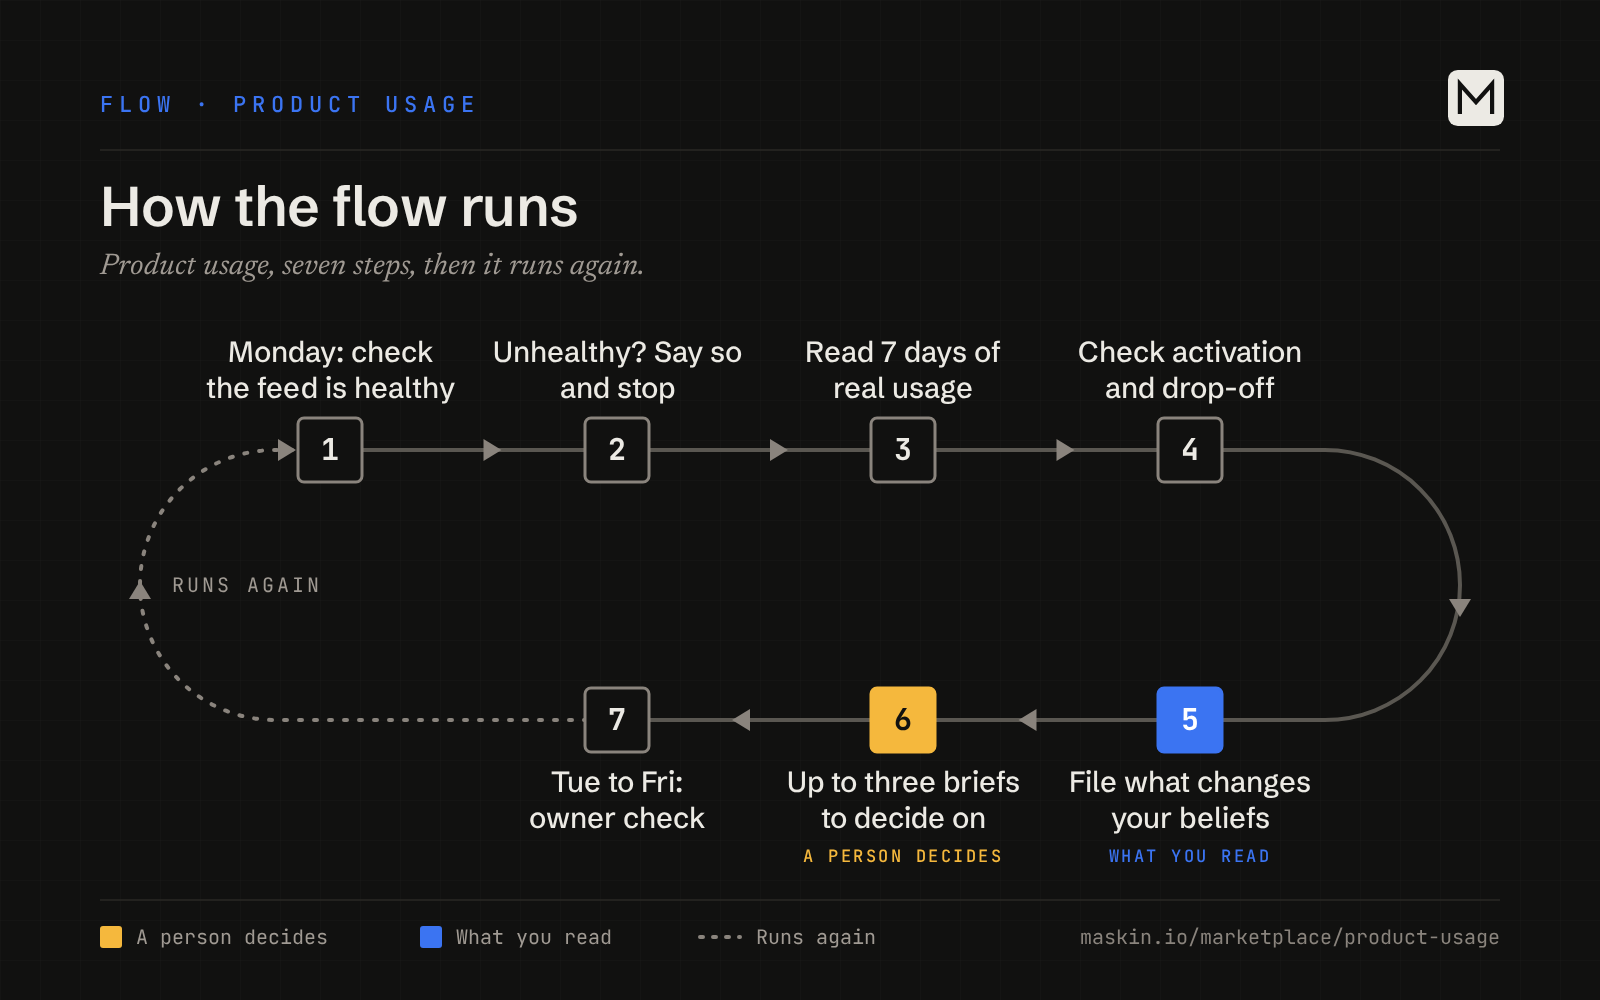
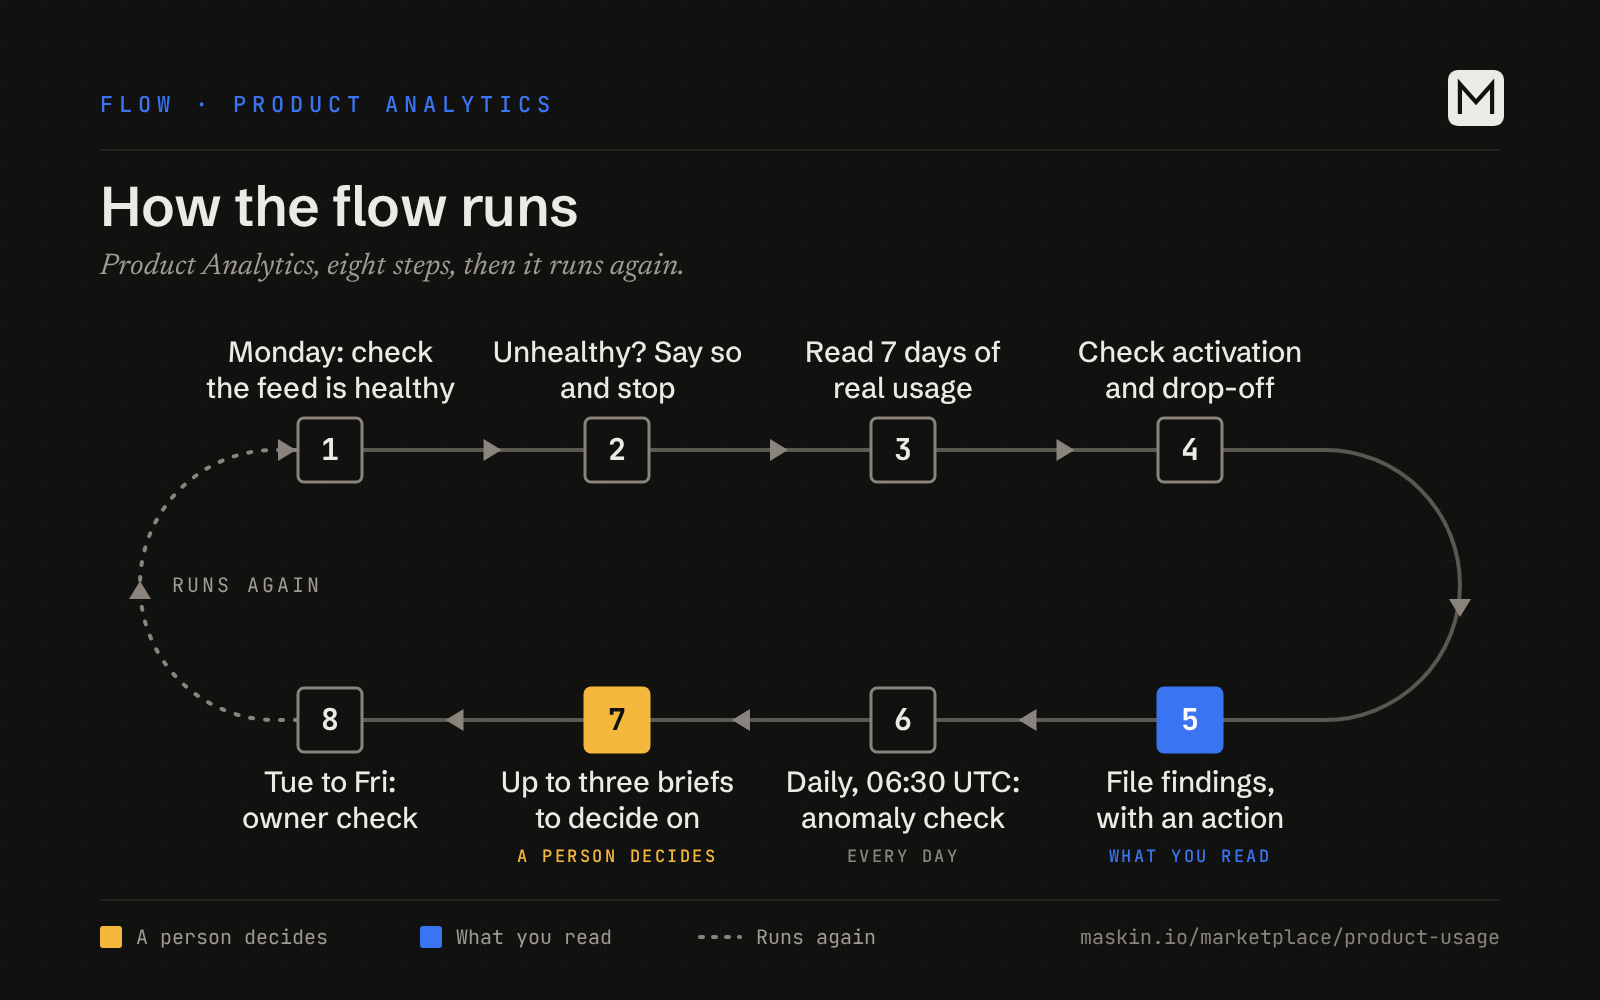
Swap in Product Analytics flow diagram and social card, fix alt text to eight steps

diff --git a/marketplace/product-usage/index.html b/marketplace/product-usage/index.html
@@ -156,7 +156,7 @@
       <li class="mp-step"><span class="mp-step__n" aria-hidden="true"></span><div class="mp-step__body">After each Monday read, Maskin refreshes the Results tab with up to three short briefs that deserve a person&rsquo;s decision, or a quiet state, and the Lifecycle tab with a stage-by-stage snapshot.</div></li>
       <li class="mp-step"><span class="mp-step__n" aria-hidden="true"></span><div class="mp-step__body">Tuesday to Friday at 07:56 UTC, an owner check checks the feed, updates the Flow&rsquo;s target for weekly reads, keeps both tabs fresh, and runs the Monday read if it did not run. A read with nothing new stays silent.</div></li>
       </ol>
-      <figure class="mp-flow"><img src="/marketplace/product-usage/flow.png" width="1600" height="1000" alt="Product Analytics flow in seven steps: check the feed is healthy, say so and stop if it is not, read 7 days of real usage, check activation and drop-off, file what changes your beliefs, up to three briefs to decide on, then a Tuesday to Friday owner check before it runs again." loading="lazy"></figure>
+      <figure class="mp-flow"><img src="/marketplace/product-usage/flow.png" width="1600" height="1000" alt="Product Analytics flow in eight steps: Monday check that the feed is healthy, say so and stop if it is not, read 7 days of real usage, check activation and drop-off, file findings with a recommended action, a daily 06:30 UTC anomaly check, up to three briefs to decide on, then a Tuesday to Friday owner check before it runs again." loading="lazy"></figure>
   </section>
   <section class="mp-sec">
     <h2 id="what-you-need-to-run-it">What you need to run it</h2>

diff --git a/marketplace/product-usage.md b/marketplace/product-usage.md
@@ -28,7 +28,7 @@ Your team gets a written finding when product usage changes what it believes, an
 6. Every day at 06:30 UTC, Maskin compares yesterday with the same weekday over the last four weeks and files an anomaly once, only when a count of 10 or more stands behind it.
 7. After each Monday read, Maskin refreshes the Results tab with up to three short briefs that deserve a person’s decision, or a quiet state, and the Lifecycle tab with a stage-by-stage snapshot.
 8. Tuesday to Friday at 07:56 UTC, an owner check checks the feed, updates the Flow’s target for weekly reads, keeps both tabs fresh, and runs the Monday read if it did not run. A read with nothing new stays silent.
-![Product Analytics flow in seven steps: check the feed is healthy, say so and stop if it is not, read 7 days of real usage, check activation and drop-off, file what changes your beliefs, up to three briefs to decide on, then a Tuesday to Friday owner check before it runs again.](/marketplace/product-usage/flow.png)
+![Product Analytics flow in eight steps: Monday check that the feed is healthy, say so and stop if it is not, read 7 days of real usage, check activation and drop-off, file findings with a recommended action, a daily 06:30 UTC anomaly check, up to three briefs to decide on, then a Tuesday to Friday owner check before it runs again.](/marketplace/product-usage/flow.png)
 
 ## What you need to run it
 - Install the Flow.
